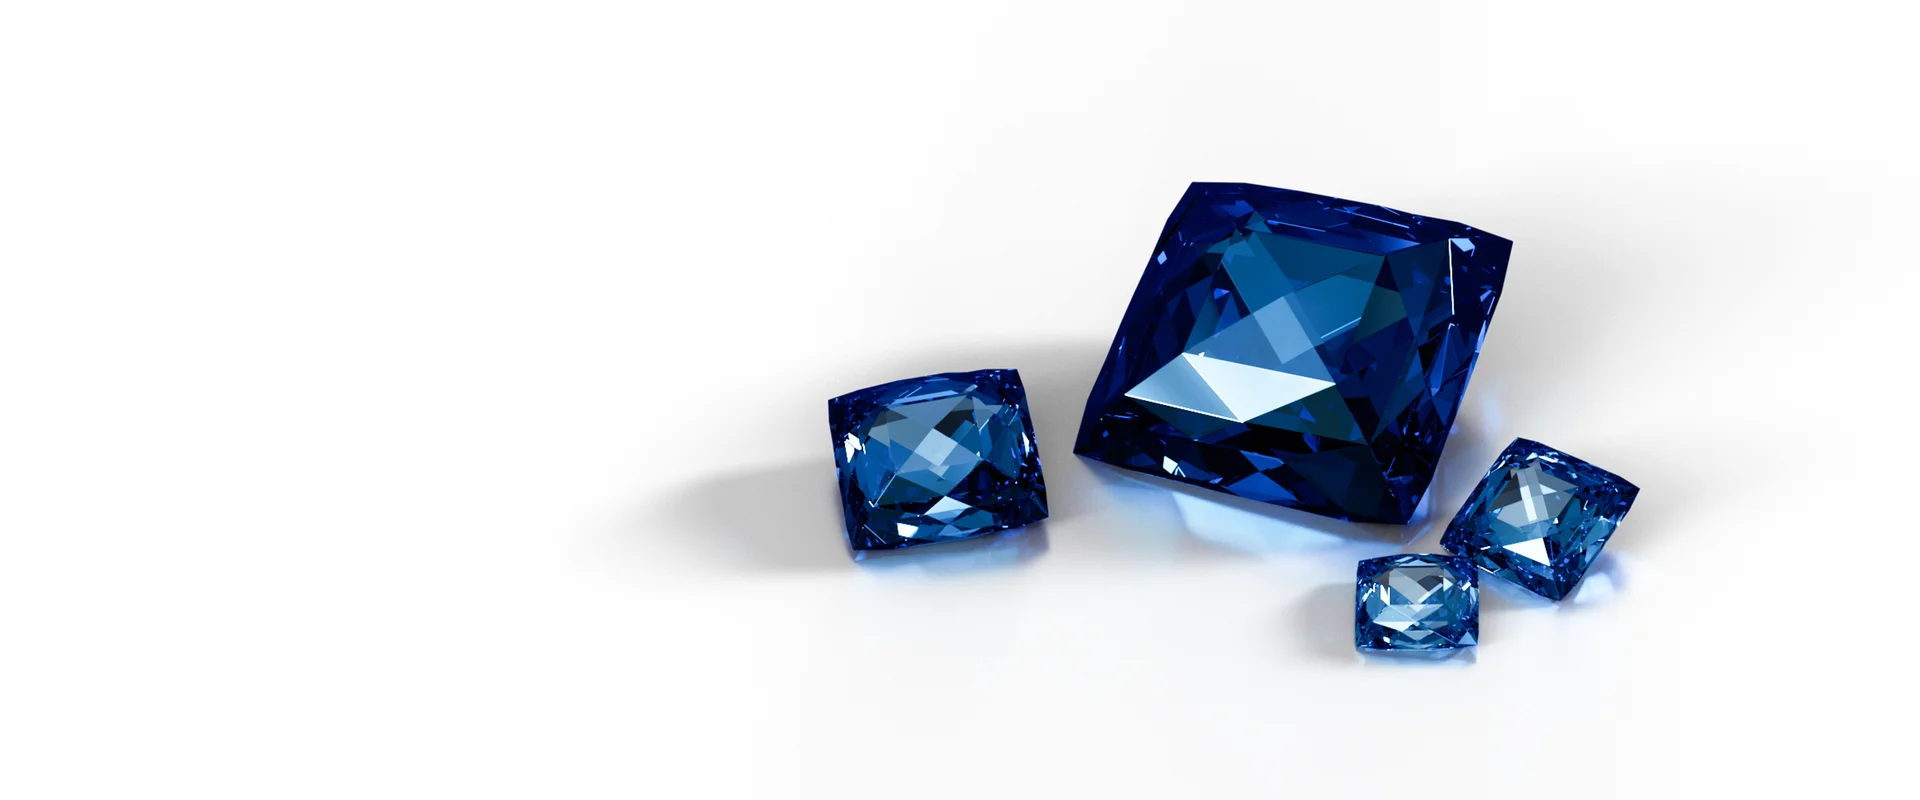
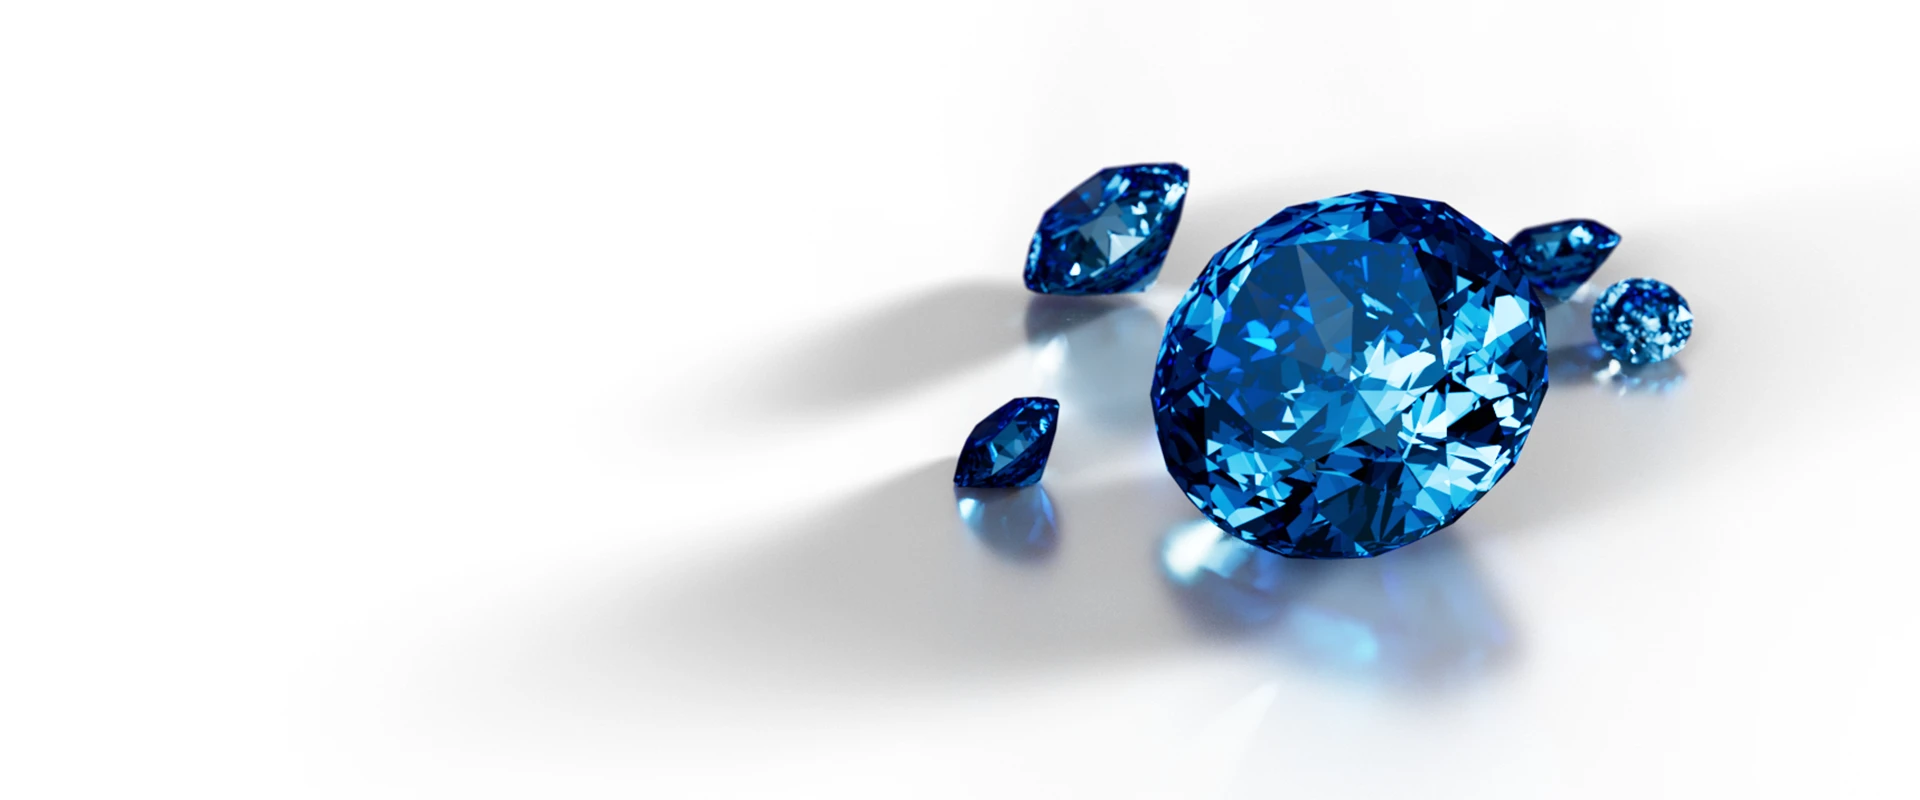
Update landing hero section with new image and layout adjustments. Replace hero image with 'blue-s.webp', enhance aspect ratio handling, and refine spacing and typography for improved visual presentation. Update web cover configuration to reflect new image path.

Changed region(s): [[0.3125, 0.1875, 0.9062, 0.9062]]

diff --git a/src/components/landing/landing-hero.tsx b/src/components/landing/landing-hero.tsx
@@ -1,13 +1,12 @@
 import Image from "next/image";
 import Link from "next/link";
-import { MapPin } from "lucide-react";
 import { Logo } from "@/components/layout/logo";
 
 /** PDF page 1 / designer attachment palette */
 const NAVY = "#004B69";
 const GOLD = "#C09A4A";
 const BTN_SECONDARY = "#7A8F9A";
-const HERO_IMAGE = "/images/covers/home-hero.webp";
+const HERO_IMAGE = "/images/covers/blue-s.webp";
 
 /**
  * Homepage hero — PDF page 1 (1920×800): Natural Ceylon Gemstones.
@@ -18,15 +17,15 @@ export function LandingHero() {
       className="relative isolate overflow-hidden bg-white"
       aria-labelledby="home-hero-title"
     >
-      <div className="relative mx-auto w-full max-w-[1920px] min-h-[clamp(420px,41.67vw,800px)] lg:h-[800px]">
+      <div className="relative mx-auto aspect-[1920/800] w-full max-w-[1920px] min-h-[360px]">
         <div className="absolute inset-0" aria-hidden>
           <Image
             src={HERO_IMAGE}
             alt=""
             fill
             priority
-            sizes="100vw"
-            className="object-cover object-[72%_center] sm:object-[70%_center] lg:object-right"
+            sizes="(max-width: 1920px) 100vw, 1920px"
+            className="object-contain object-right"
           />
         </div>
 
@@ -35,7 +34,7 @@ export function LandingHero() {
           aria-hidden
         />
 
-        <div className="relative z-10 flex h-full min-h-[clamp(420px,41.67vw,800px)] items-start px-[var(--margin-mobile)] pt-10 pb-14 md:px-[var(--margin-desktop)] md:pt-12 lg:h-[800px] lg:pt-14 lg:pb-0 xl:pt-16">
+        <div className="relative z-10 flex h-full items-start px-[var(--margin-mobile)] pt-8 pb-10 md:px-[var(--margin-desktop)] md:pt-10 lg:pt-14 xl:pt-16">
           <div className="max-w-[560px] text-left lg:pl-[2%]">
             <Logo size="hero" className="!w-[clamp(160px,12vw,200px)]" />
 
@@ -84,7 +83,19 @@ export function LandingHero() {
               className="font-poppins mt-4 flex items-center gap-2 text-[clamp(12px,0.85vw,14px)] font-normal tracking-[0.02em] lg:mt-5 xl:mt-4"
               style={{ color: NAVY }}
             >
-              <MapPin className="h-[15px] w-[15px] shrink-0" strokeWidth={2} aria-hidden />
+              {/* Filled pin matching designer attachment (navy + white center) */}
+              <svg
+                className="h-[15px] w-[11px] shrink-0"
+                viewBox="0 0 12 16"
+                fill="none"
+                aria-hidden
+              >
+                <path
+                  d="M6 0C2.686 0 0 2.686 0 6c0 4.5 6 10 6 10s6-5.5 6-10c0-3.314-2.686-6-6-6Z"
+                  fill={NAVY}
+                />
+                <circle cx="6" cy="6" r="2.25" fill="white" />
+              </svg>
               <span>
                 Curated in Australia{" "}
                 <span className="mx-1 opacity-50" aria-hidden>

diff --git a/src/config/web-covers.ts b/src/config/web-covers.ts
@@ -28,7 +28,7 @@ function coverPath(name: string) {
 }
 
 const home: WebCoverContent = {
-  image: coverPath("home-hero.webp"),
+  image: coverPath("blue-s.webp"),
   eyebrow: "Sri Lanka's Finest Treasures",
   titleLines: ["Natural Ceylon", "Gemstones"],
   tagline: "Curated in Australia | Sourced in Sri Lanka",
